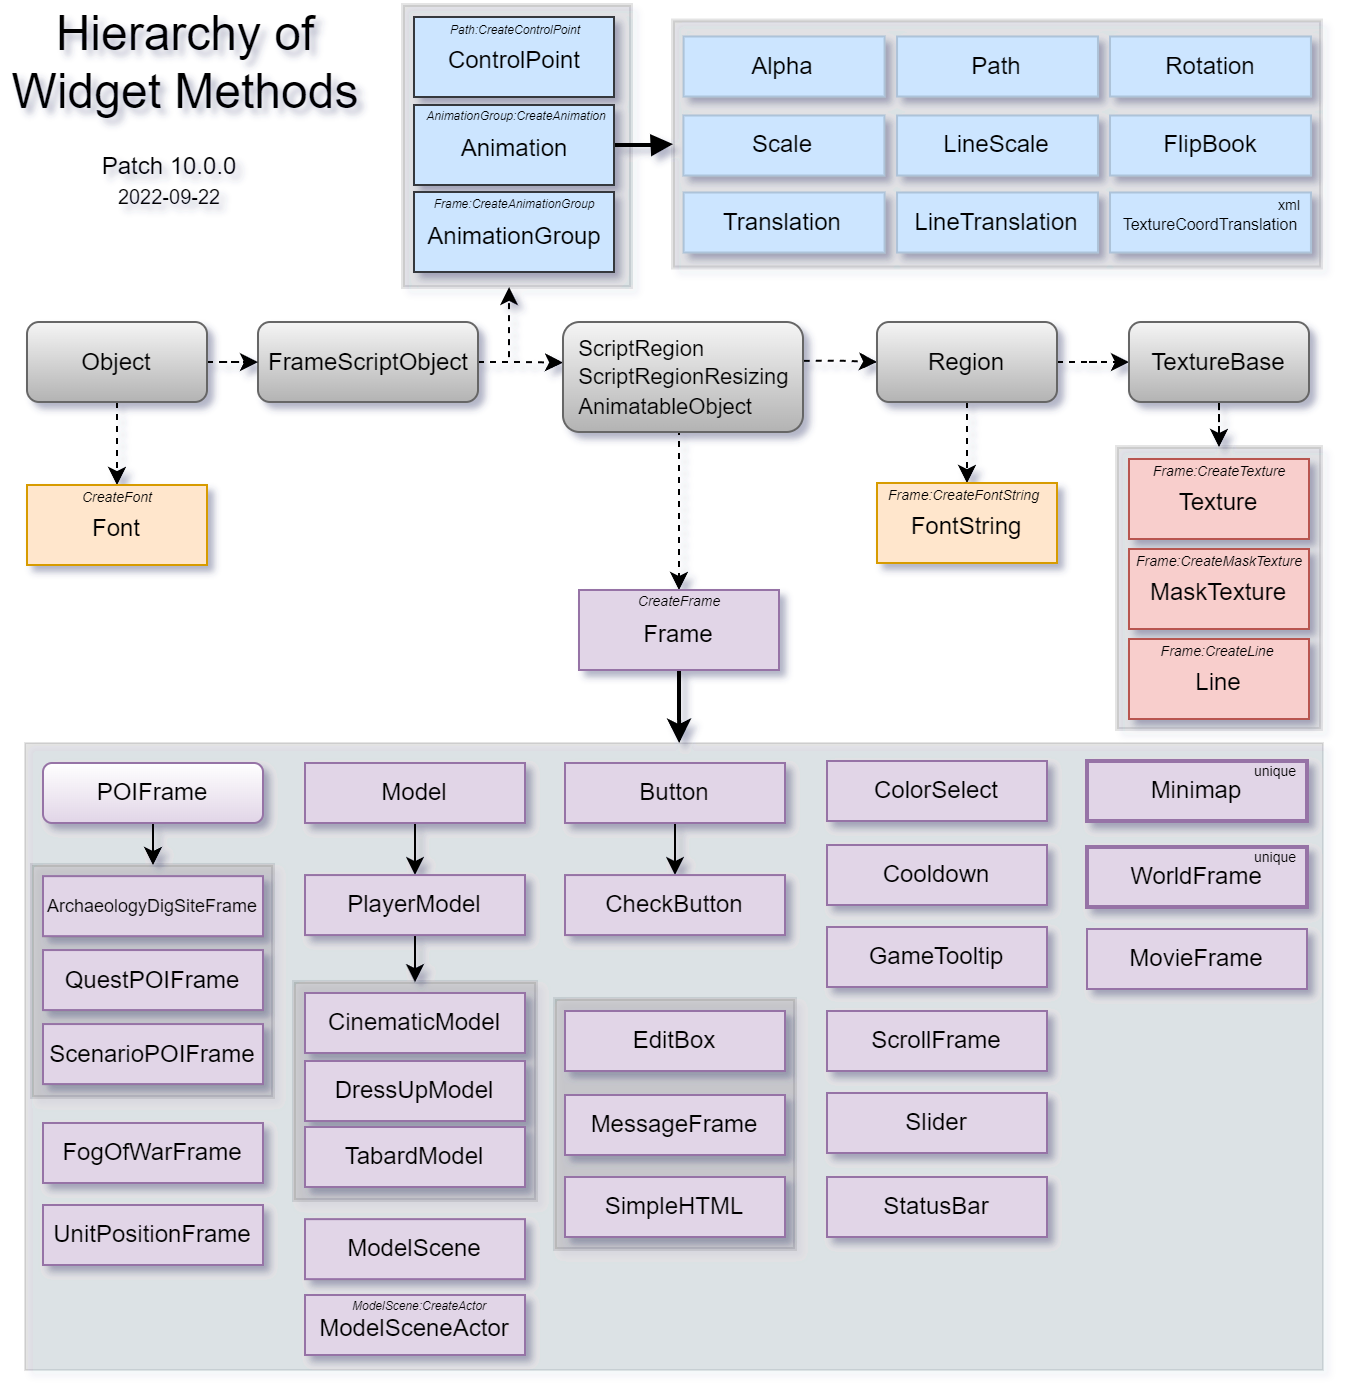
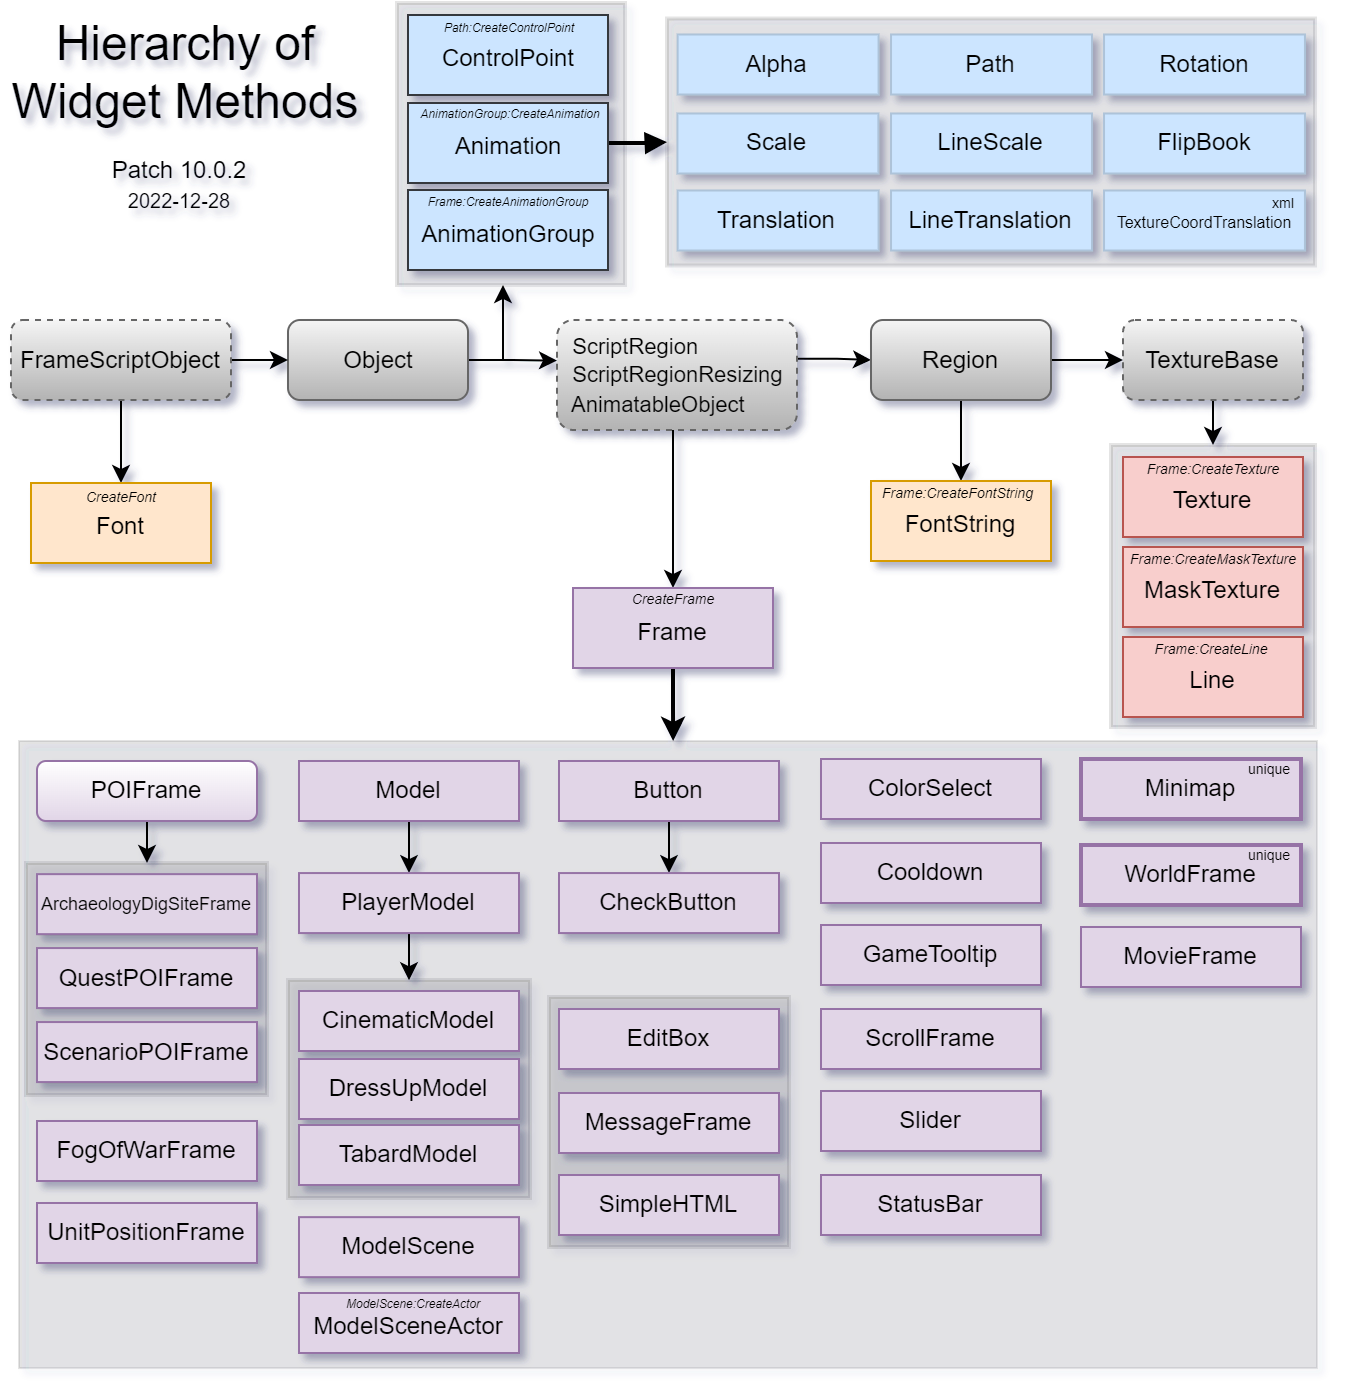
10.0.2 (47631)

diff --git a/README.md b/README.md
@@ -4,6 +4,6 @@ Global resources extracted from World of Warcraft for development purposes.
 * [GlobalStrings](https://github.com/Ketho/WowpediaDoc/blob/master/Projects/UpdateResources/GlobalStrings.lua) and [AtlasInfo](https://github.com/Ketho/WowpediaDoc/blob/master/Projects/UpdateResources/AtlasInfo.lua) are downloaded from [wow.tools](https://wow.tools/dbc/?dbc=globalstrings)
 * Templates and mixins are [parsed](https://github.com/Ketho/WowpediaDoc/blob/master/Projects/DumbXmlParser/DumbXmlParser.lua) from FrameXML
 ```lua
-GetBuildInfo() => "10.0.2", "46924", "Dec  1 2022", 100002
+GetBuildInfo() => "10.0.2", "47631", "Jan 12 2023", 100002
 ```
 ![](https://raw.githubusercontent.com/Ketho/BlizzardInterfaceResources/mainline/Resources/WidgetHierarchy.png)
